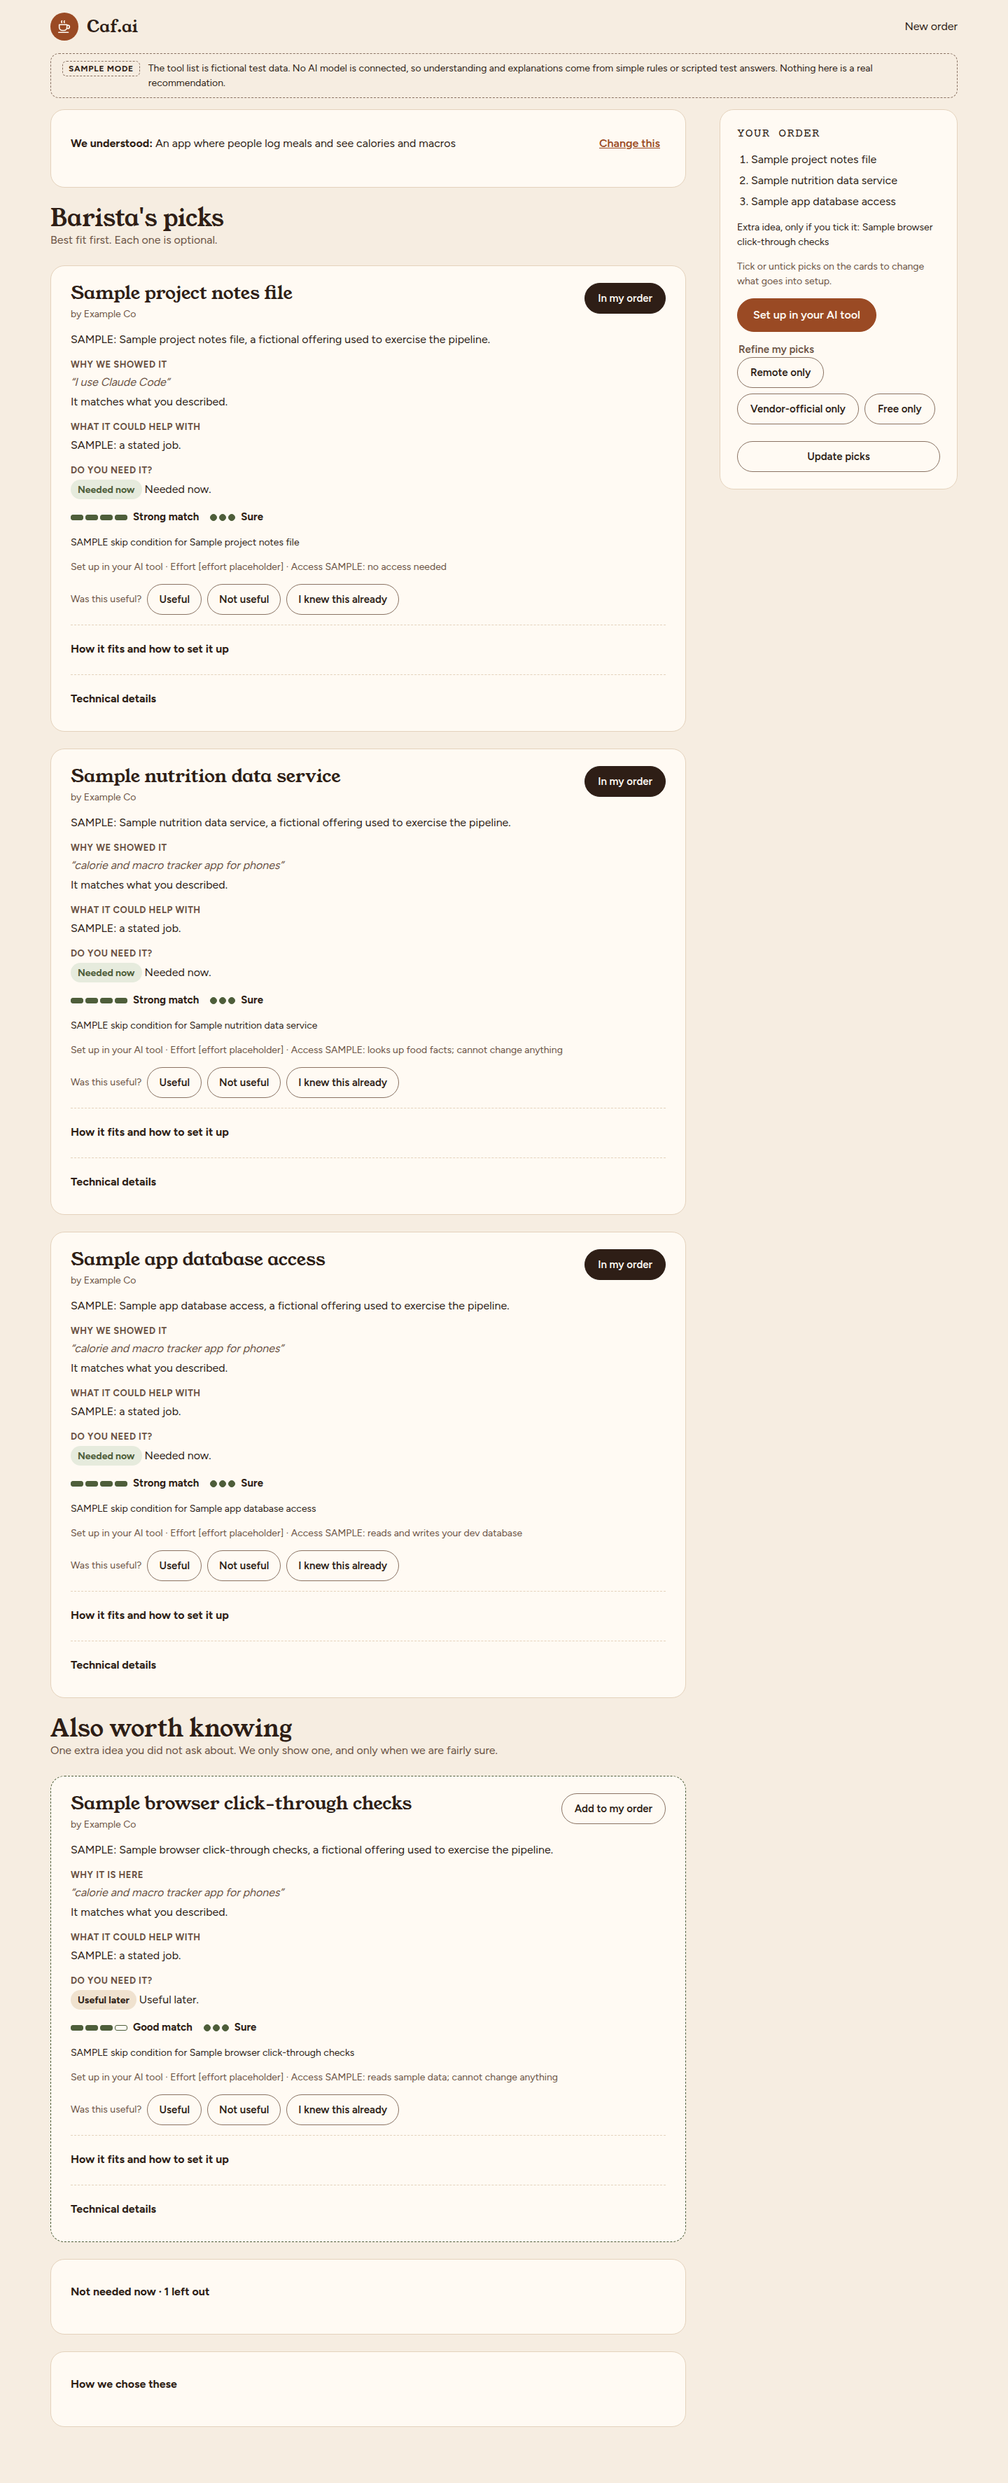
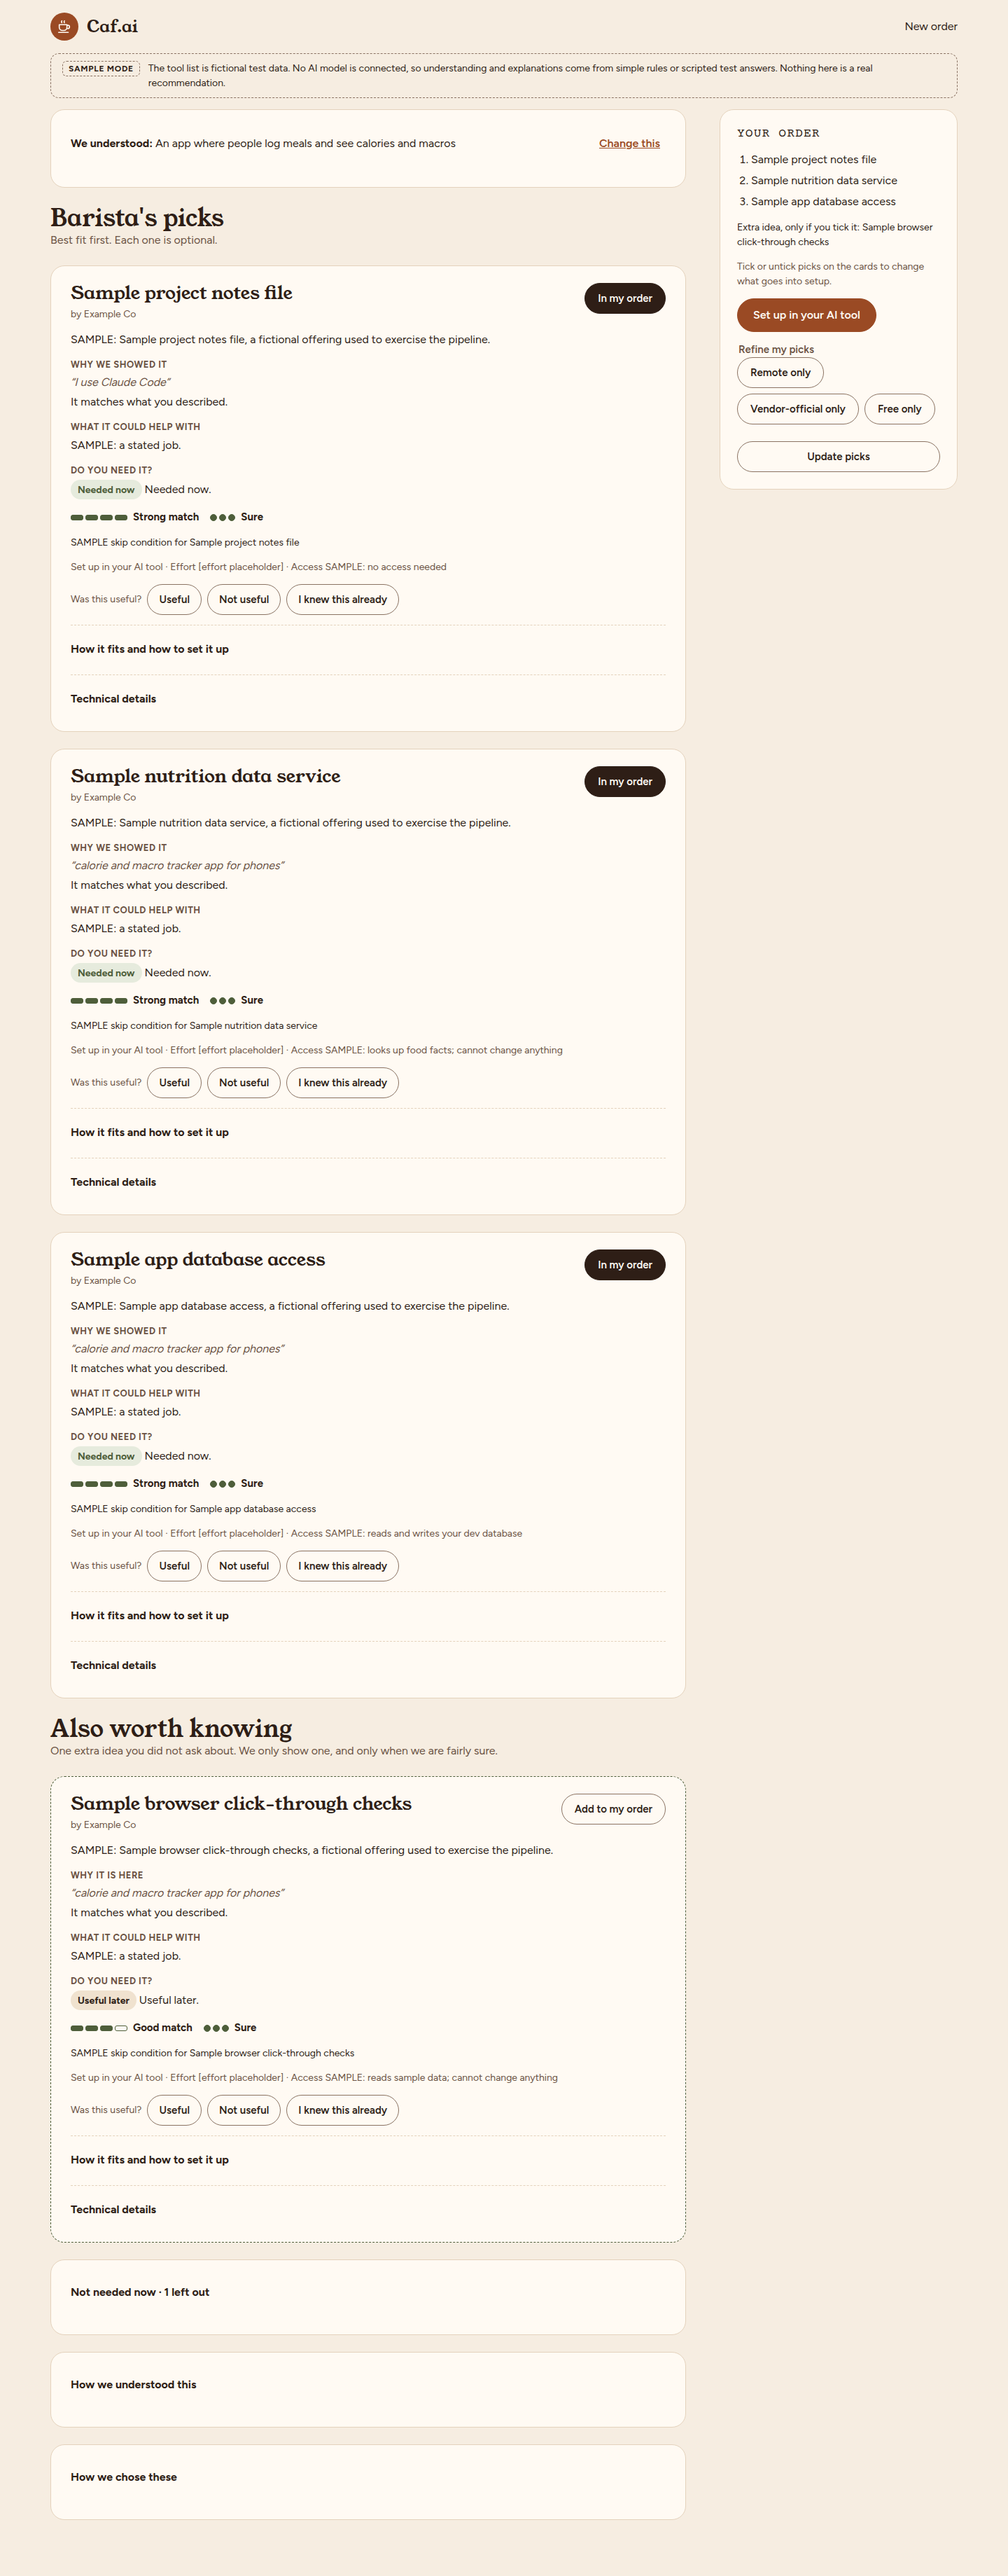
L9: show alternatives and 'How we understood this' (45 Chromium checks pass)
Claude-Session: https://claude.ai/code/session_0118KkTwc2yfQZRNRwZAgysa

diff --git a/src/server/runService.ts b/src/server/runService.ts
@@ -10,7 +10,7 @@ import type { Constraints } from "@/engine/match";
 import { runPipeline } from "@/engine/pipeline";
 import type { DecisionProvider, LlmProvider } from "@/engine/providers/types";
 import { redact } from "@/engine/redact";
-import type { Explanation, NeedAnswer, NotNeeded, ProfileItem, RunOutcome, RunResult } from "@/engine/types";
+import type { Alternative, Explanation, NeedAnswer, NotNeeded, ProfileItem, RunOutcome, RunResult } from "@/engine/types";
 import type { UserItem } from "@/engine/understand";
 
 export interface StartRun {
@@ -49,6 +49,7 @@ export interface StoredPick {
   evidence_ids: string[];
   explanation: Explanation;
   notes: string[];
+  alternatives: Alternative[];
 }
 
 export interface StoredRun {
@@ -62,6 +63,8 @@ export interface StoredRun {
   declared_clients: string[];
   details: RunDetails;
   picks: StoredPick[];
+  /** Concept expansion behind the read-back (internal; shown only under "How we understood this"). */
+  concepts: { term: string; capability_id: string | null }[];
 }
 
 export async function startRun(
@@ -109,11 +112,11 @@ export async function startRun(
     for (const p of result.picks) {
       await c.query(
         `INSERT INTO recommendations (run_id, offering_id, catalog_version, lane, rank, capability_id, need_type, match_band,
-           match_components, confidence_band, confidence_inputs, evidence_ids, explanation, do_you_need_it, notes)
-         VALUES ($1,$2,$3,$4,$5,$6,$7,$8,$9,$10,$11,$12,$13,$14,$15)`,
+           match_components, confidence_band, confidence_inputs, evidence_ids, explanation, do_you_need_it, notes, alternatives)
+         VALUES ($1,$2,$3,$4,$5,$6,$7,$8,$9,$10,$11,$12,$13,$14,$15,$16)`,
         [id, p.offering_id, snapshot.version, p.lane, p.rank, p.capability_id, p.need_type, p.match.band,
           JSON.stringify(p.match.components), p.confidence.band, JSON.stringify(p.confidence.inputs), p.evidence_ids,
-          JSON.stringify(p.explanation), p.do_you_need_it, p.notes],
+          JSON.stringify(p.explanation), p.do_you_need_it, p.notes, JSON.stringify(p.alternatives)],
       );
     }
     for (const u of result.usage) {
@@ -137,7 +140,7 @@ export async function loadRun(pool: pg.Pool, runId: string): Promise<StoredRun |
     const r = await c.query("SELECT * FROM recommendation_runs WHERE id = $1", [runId]);
     if (r.rowCount === 0) return null;
     const run = r.rows[0];
-    const ctx = await c.query("SELECT raw_text, declared_clients FROM context_snapshots WHERE run_id = $1 ORDER BY version DESC LIMIT 1", [runId]);
+    const ctx = await c.query("SELECT raw_text, declared_clients, profile FROM context_snapshots WHERE run_id = $1 ORDER BY version DESC LIMIT 1", [runId]);
     const picks = await c.query("SELECT * FROM recommendations WHERE run_id = $1 ORDER BY rank", [runId]);
     return {
       id: run.id,
@@ -150,6 +153,7 @@ export async function loadRun(pool: pg.Pool, runId: string): Promise<StoredRun |
       declared_clients: ctx.rows[0]?.declared_clients ?? [],
       details: run.details,
       picks: picks.rows,
+      concepts: ctx.rows[0]?.profile?.concepts ?? [],
     } as StoredRun;
   });
 }

diff --git a/src/engine/assemble.ts b/src/engine/assemble.ts
@@ -2,7 +2,7 @@
 // (including the one "Also worth knowing" pick, REGISTER A-013). Low confidence and Checked trust never sit in the
 // top three (§9, §11). Possible / Weak / Skip go under "Not needed now" with the reason.
 import { ENGINE_CONFIG as C } from "./config";
-import type { NeedAnswer, NotNeeded, ScoredCandidate } from "./types";
+import type { Alternative, NeedAnswer, NotNeeded, ScoredCandidate } from "./types";
 
 const MATCH_ORDER = { strong: 0, good: 1, possible: 2, weak: 3, skip: 4 } as const;
 const CONF_ORDER = { high: 0, medium: 1, low: 2 } as const;
@@ -23,6 +23,7 @@ export interface Placed extends ScoredCandidate {
   lane: "direct" | "also_worth_knowing";
   rank: number;
   do_you_need_it: NeedAnswer;
+  alternatives: Alternative[];
 }
 
 /** §8 part 6: need type and skip rules → needed now, useful later, probably not. */
@@ -37,9 +38,15 @@ export function assemble(scored: ScoredCandidate[]): { picks: Placed[]; notNeede
   const drop = (s: ScoredCandidate, reason: NotNeeded["reason"], detail?: string) =>
     notNeeded.push({ capability_id: s.capability_id, offering_id: s.offering_id, reason, match_band: s.match.band, ...(detail ? { detail } : {}) });
 
-  // One pick per capability: the best candidate for each.
+  // One pick per capability: the best candidate for each. Other Strong/Good ones stay as alternatives.
   const bestByCap = new Map<string, ScoredCandidate>();
-  for (const s of [...scored].sort(better)) if (!bestByCap.has(s.capability_id)) bestByCap.set(s.capability_id, s);
+  const altsByCap = new Map<string, Alternative[]>();
+  for (const s of [...scored].sort(better)) {
+    if (!bestByCap.has(s.capability_id)) bestByCap.set(s.capability_id, s);
+    else if (s.match.band === "strong" || s.match.band === "good") {
+      altsByCap.set(s.capability_id, [...(altsByCap.get(s.capability_id) ?? []), { offering_id: s.offering_id, match_band: s.match.band, confidence_band: s.confidence.band }]);
+    }
+  }
 
   const eligible: ScoredCandidate[] = [];
   for (const s of bestByCap.values()) {
@@ -58,7 +65,8 @@ export function assemble(scored: ScoredCandidate[]): { picks: Placed[]; notNeede
   const direct = eligible.filter((s) => s.need_type !== "latent").sort(better);
   const directCap = C.caps.maxPicks - (awk ? 1 : 0);
   const picks: Placed[] = [];
-  const place = (s: ScoredCandidate, lane: Placed["lane"]) => picks.push({ ...s, lane, rank: picks.length + 1, do_you_need_it: doYouNeedIt(s) });
+  const place = (s: ScoredCandidate, lane: Placed["lane"]) =>
+    picks.push({ ...s, lane, rank: picks.length + 1, do_you_need_it: doYouNeedIt(s), alternatives: altsByCap.get(s.capability_id) ?? [] });
 
   // Unrestricted direct picks first, then those kept from the top three (only from rank 4 on).
   for (const s of [...direct.filter((d) => !keptFromTop(d)), ...direct.filter(keptFromTop)]) {

diff --git a/src/app/_components/PickCard.tsx b/src/app/_components/PickCard.tsx
@@ -134,6 +134,23 @@ export function PickCard(props: {
             <span className="part-label">First thing to try</span>
             <p className="quote">“{o.editorial.first_prompt}”</p>
           </div>
+          {pick.alternatives?.length > 0 && (
+            <details className="alts">
+              <summary>Show alternatives ({pick.alternatives.length})</summary>
+              <ul>
+                {pick.alternatives.map((a) => {
+                  const alt = snapshot.offerings.find((x) => x.id === a.offering_id);
+                  return alt ? (
+                    <li key={a.offering_id}>
+                      <strong>{alt.identity.display_name}</strong> <span className="muted small">by {alt.identity.vendor}</span>
+                      <br />{alt.editorial.what_it_is}{" "}
+                      <span className="small">{MATCH_LABEL[a.match_band]} · {CONFIDENCE_LABEL[a.confidence_band]}</span>
+                    </li>
+                  ) : null;
+                })}
+              </ul>
+            </details>
+          )}
         </div>
       </details>
 

diff --git a/src/engine/pipeline.test.ts b/src/engine/pipeline.test.ts
@@ -83,6 +83,15 @@ describe("runPipeline (MOCK providers, FIXTURE catalog)", () => {
     expect(awk[0]!.confidence.band).not.toBe("low");
   });
 
+  it("keeps other Strong or Good offerings for the same capability as alternatives, never flagged ones", async () => {
+    const r = await run(provider());
+    const storage = r.picks.find((p) => p.capability_id === "app-data-storage")!;
+    const ids = [storage.offering_id, ...storage.alternatives.map((a) => a.offering_id)].sort();
+    expect(ids).toEqual(["fx-app-database", "fx-hosted-database"]);
+    const testing = r.picks.find((p) => p.capability_id === "click-through-testing")!;
+    expect(testing.alternatives.map((a) => a.offering_id)).not.toContain("fx-flagged-tool");
+  });
+
   it("never recommends flagged offerings and keeps one pick per capability", async () => {
     const r = await run(provider());
     expect(r.picks.map((p) => p.offering_id)).not.toContain("fx-flagged-tool");

diff --git a/src/app/r/[runId]/page.tsx b/src/app/r/[runId]/page.tsx
@@ -199,6 +199,18 @@ export default async function RunPage({ params, searchParams }: {
             </details>
           )}
 
+          {run.concepts.length > 0 && (
+            <details className="card notneeded">
+              <summary>How we understood this</summary>
+              <p className="small muted">For technical users: the ideas behind the read-back, and whether our menu covers them yet.</p>
+              <ul>
+                {run.concepts.map((c, i) => (
+                  <li key={i}>{c.term}: {c.capability_id ? capName(c.capability_id) : "not on our menu yet (noted as a gap)"}</li>
+                ))}
+              </ul>
+            </details>
+          )}
+
           {run.picks.length > 0 && (
             <details className="card notneeded">
               <summary>How we chose these</summary>

diff --git a/src/engine/types.ts b/src/engine/types.ts
@@ -79,11 +79,19 @@ export interface ScoredCandidate {
   notes: string[]; // e.g. "checked_trust", "stale_verification", "thin_evidence"
 }
 
+export interface Alternative {
+  offering_id: string;
+  match_band: MatchBand;
+  confidence_band: ConfidenceBand;
+}
+
 export interface Pick extends ScoredCandidate {
   lane: "direct" | "also_worth_knowing";
   rank: number;
   do_you_need_it: NeedAnswer;
   explanation: Explanation;
+  /** Other eligible (Strong or Good) offerings for the same capability, best first ("Show alternatives", §24). */
+  alternatives: Alternative[];
 }
 
 export type NotNeededReason =

diff --git a/src/app/globals.css b/src/app/globals.css
@@ -132,3 +132,5 @@ summary::-webkit-details-marker { display: none; }
 .btn.fit { align-self: flex-start; }
 .hp { position: absolute; left: -10000px; width: 1px; height: 1px; overflow: hidden; }
 .page .banner { margin-left: 0; margin-right: 0; }
+.alts summary { font-weight: 700; min-height: 44px; display: flex; align-items: center; }
+.alts ul { margin: 4px 0 0; padding-left: 20px; display: flex; flex-direction: column; gap: 10px; }

diff --git a/docs/FIGMA_HANDOFF.md b/docs/FIGMA_HANDOFF.md
@@ -24,6 +24,7 @@ Desktop frames are 1440 wide, mobile frames 390 wide, full page height. All samp
 | 09 | `/r/:runId` | 5 (trust states) | `09-revoked-pick-desktop.png` | — | Pick revoked after the run (withdrawn notice) |
 | 10 | `/r/:runId` | 6 States | `10-ai-off-desktop.png` | — | AI off: degraded banner + low-confidence read-back |
 | 11 | `/` | 6 States (quota, unspecified) | `11-quota-desktop.png` | — | Hourly cap reached message |
+| 12 | `/r/:runId` (one card) | 3 Picks ("Show alternatives", should have) | `12-alternatives-desktop.png` | — | Level 2 open with one alternative |
 
 Not built yet (no screenshot): streaming skeletons (board 2), saved project (8), settings (9), save prompt (10),
 check-in email and page (11, 12), second door (13), low-confidence and clarifying-question states (drawn on board 6,
@@ -135,4 +136,5 @@ Confidence always shown as two separate indicators with words; score numbers onl
 |---|---|---|
 | 2026-09-30 08:55 | L6a | Counter, results page, card levels, outcomes, order and refine built and verified (27 checks) |
 | 2026-09-30 09:00 | L6b | Setup page: tabs, paste message, decoded Cursor config, warnings, copy, It worked / Stuck (41 checks). Fixed: order listed the unticked extra idea; refine chips stacked; duplicate "Needed now" wording; Cursor pseudo-host shown as a connection; internal plan wording shown to users; full-width install button |
-| 2026-09-30 09:14 | L8 | Quota, paused, AI-off and revoked states; honeypot field; error page. Fixed: warn banner double indent; degraded copy now says when AI understanding was unavailable |
+| 2026-09-30 09:07 | L8 | Quota, paused, AI-off and revoked states; honeypot field; error page. Fixed: warn banner double indent; degraded copy now says when AI understanding was unavailable |
+| 2026-09-30 09:13 | L9 | "Show alternatives" inside level 2; "How we understood this" panel |

diff --git a/docs/TRACEABILITY.md b/docs/TRACEABILITY.md
@@ -113,3 +113,14 @@ Format: MD section → requirement → engineering task → files → test. Kind
 | §17 | Redacted structured logs (no description text) | CONFIRMED | `runService.ts` `run_completed` log | — |
 | §24 | Bot check on anonymous runs | PARTIAL: honeypot field only; vendor open (A-005) | `page.tsx` `.hp` | controls-flow "honeypot" |
 | §24 | Day 3–7 follow-up email | BLOCKED: email provider (A-005) and where the address is asked (A-012) | — | — |
+
+## L9 Should-haves
+
+| Plan § | Requirement | Kind | Files | Verification |
+|---|---|---|---|---|
+| §24, §8 | "Show alternatives": other eligible offerings for the same capability | CONFIRMED (two-pick comparison not built) | `assemble.ts`, `004_alternatives.sql`, `PickCard` | pipeline test; flow "alternatives listed" |
+| §9, §24 | "How we understood this": concepts behind the read-back, unmapped ones shown as gaps | CONFIRMED | `r/[runId]/page.tsx` | flow "unmapped concept shown as a gap" |
+| §24 | Pasting a manifest | NOT BUILT: no mapping from dependency names to capabilities in the plan or catalog schema (A-036) | — | — |
+| §24 | Glossary tooltips | NOT BUILT: wording unspecified (A-029) | — | — |
+| §24 | Priced Pro waitlist | NOT BUILT: price is a range to test and needs an email provider (A-005) | — | — |
+| §24 | Automated weekly catalog checks | NOT BUILT: real catalog is empty (A-006) | — | — |

diff --git a/docs/REGISTER.md b/docs/REGISTER.md
@@ -39,6 +39,7 @@ Status: **RESOLVED** (user-confirmed), **DEFERRED** (decision postponed to a nam
 | A-033 | Budget cap behaviour | §9: "queue the run and email when ready, if the user opts in" | Queueing needs email (A-005). Interim: runs continue with no model calls (deterministic rules, degraded banner). |
 | A-034 | Client address for quotas | §14 | Uses the first `x-forwarded-for` value; only trustworthy behind a known proxy. Hosting is undecided (A-004), so revisit at deploy. |
 | A-035 | Bot check | §14, §24 name a bot check, no vendor | Honeypot field as an interim measure; real bot check waits for a vendor (A-005). |
+| A-036 | Manifest paste → stack signals | §12, §24 | Needs a curated mapping from dependency names to capabilities; no such field exists yet. Not built. |
 | A-020 | GitHub push access | environment | RESOLVED 2026-09-30: access fixed by the user; all commits pushed. |
 
 Wireframe canvas unknowns (21 items, exact answers needed) are listed on the canvas sticky note: https://claude.ai/artifact/Ws1hft8GALEGne1L616Y4Y
